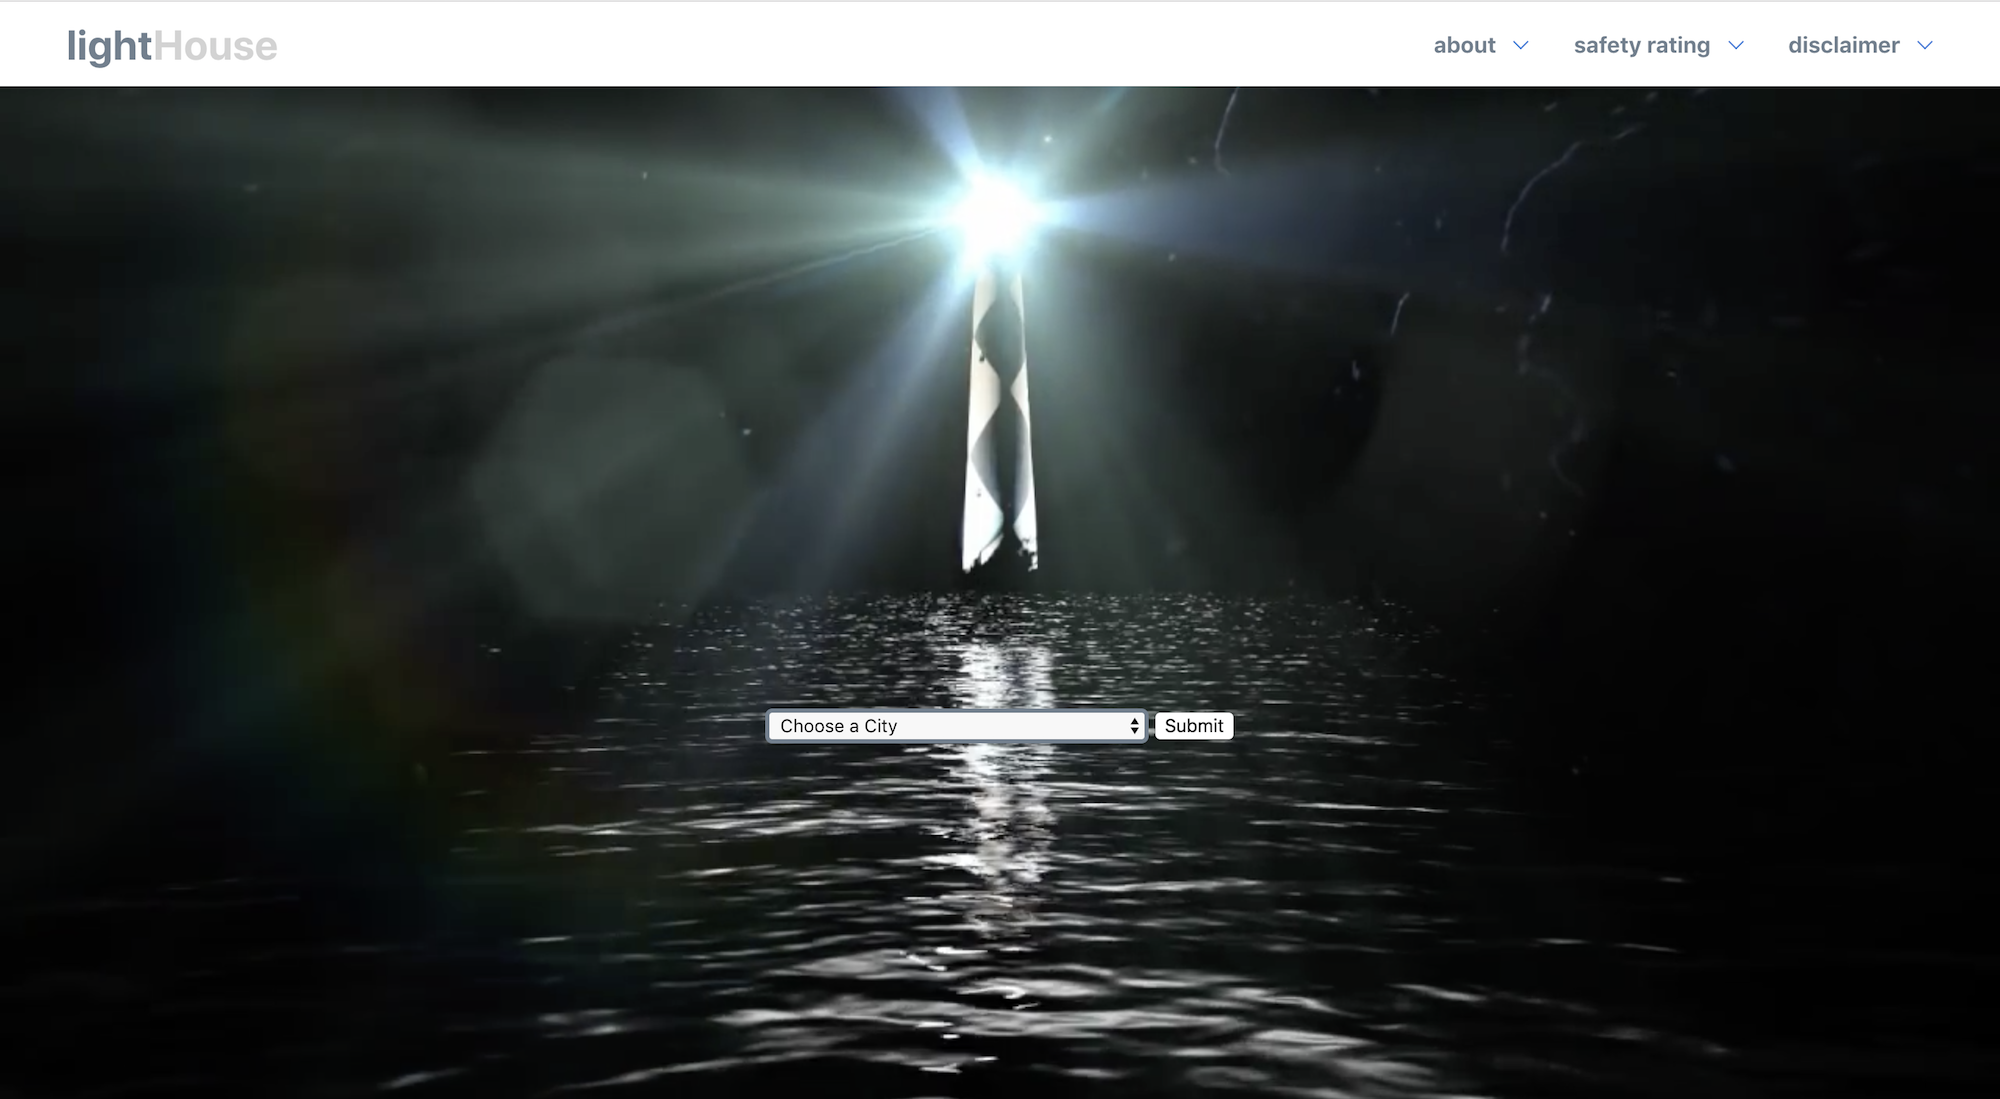
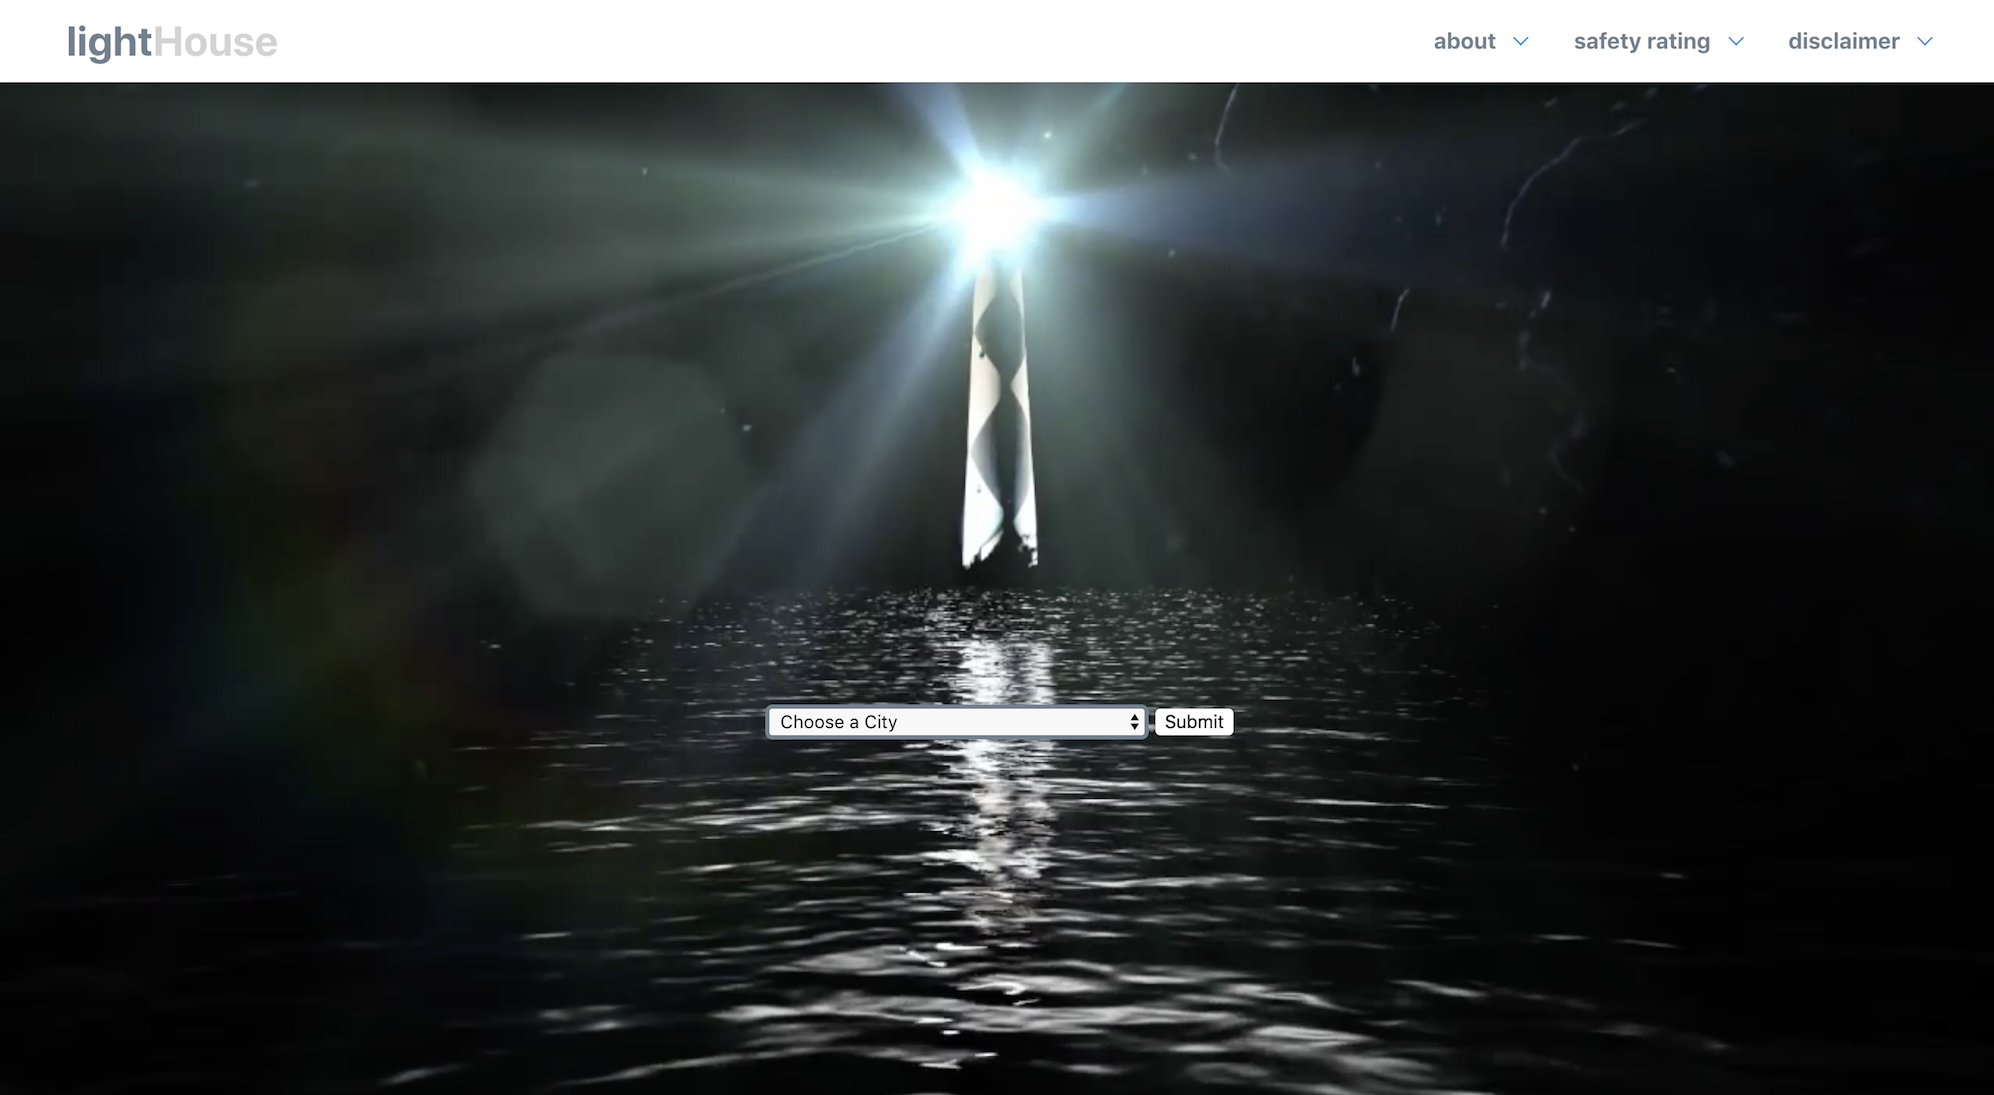
projects page layout and content

diff --git a/src/components/Projects.js b/src/components/Projects.js
@@ -1,12 +1,180 @@
+// Dependencies
 import React from "react";
+import { Grid, Container, Header, Image, Icon, Popup, Divider } from "semantic-ui-react";
+
+// Components
 import Navbar from "./Navbar";
 
+// Images
+import zephyr1 from "../assets/images/project_img/zephyr_1.png";
+import zephyr2 from "../assets/images/project_img/zephyr_2.png";
+import lightHouse1 from "../assets/images/project_img/lighthouse_1.png";
+import lightHouse2 from "../assets/images/project_img/lighthouse_2.png";
+import meetMeHalfway1 from "../assets/images/project_img/mmh_1.png";
+import meetMeHalfway2 from "../assets/images/project_img/mmh_2.png";
+
 const Projects = () => {
+
+  const projectHeader = {
+    fontFamily: "'Fira Code', monospace"
+  }
+
+  const zephyrStack = [
+    {
+      name: "HTML",
+      iconName: "devicon-html5-plain"
+    },
+    {
+      name: "CSS",
+      iconName: "devicon-css3-plain"
+    },
+    {
+      name: "JavaScript",
+      iconName: "devicon-javascript-plain"
+    },
+    {
+      name: "React",
+      iconName: "devicon-react-plain"
+    },
+    {
+      name: "MySQL",
+      iconName: "devicon-mysql-plain"
+    },
+    {
+      name: "Sequelize",
+      iconName: "devicon-sequelize-plain"
+    },
+    {
+      name: "Heroku",
+      iconName: "devicon-heroku-plain"
+    }
+  ]
+
+  const lightHouseStack = [
+    {
+      name: "HTML",
+      iconName: "devicon-html5-plain"
+    },
+    {
+      name: "CSS",
+      iconName: "devicon-css3-plain"
+    },
+    {
+      name: "JavaScript",
+      iconName: "devicon-javascript-plain"
+    },
+    {
+      name: "Node",
+      iconName: "devicon-nodejs-plain"
+    },
+    {
+      name: "Express",
+      iconName: "devicon-express-original"
+    },
+    {
+      name: "MySQL",
+      iconName: "devicon-mysql-plain"
+    },
+    {
+      name: "Heroku",
+      iconName: "devicon-heroku-plain"
+    }
+  ]
+
+  const meetMeHalfwayStack = [
+    {
+      name: "HTML",
+      iconName: "devicon-html5-plain"
+    },
+    {
+      name: "CSS",
+      iconName: "devicon-css3-plain"
+    },
+    {
+      name: "JavaScript",
+      iconName: "devicon-javascript-plain"
+    },
+    {
+      name: "jQuery",
+      iconName: "devicon-jquery-plain"
+    }
+  ]
 
   return (
     <div>
       <Navbar />
-      <p>Projects</p>
+      <Container>
+        <Grid>
+          <Grid.Row>
+            <Grid.Column>
+              <Header as="h2" content="//Projects" style={projectHeader} />
+            </Grid.Column>
+          </Grid.Row>
+
+          <Grid.Row divided>
+            <Grid.Column mobile={16} tablet={8} computer={6}>
+              <Image fluid src={zephyr1} />
+            </Grid.Column>
+            <Grid.Column mobile={16} tablet={8} computer={10}>
+              <Divider hidden />
+              <Header as="h3" content="Zephyr Node" style={projectHeader} />
+              <p>
+                A web application that utilizes the Google Maps and Yelp APIs to ease the process of making plans with friends. Populates businesses/restaurants onto a map, based off of a middle point between 2 addresses.
+              </p>
+              {zephyrStack.map((stackItem) => (
+                <Popup
+                  key={stackItem.name}
+                  header={stackItem.name}
+                  trigger={<Icon size="small" color="violet" circular><i class={stackItem.iconName} /></Icon>}
+                  position="bottom center"
+                />
+              ))}
+            </Grid.Column>
+          </Grid.Row>
+
+          <Grid.Row divided>
+            <Grid.Column mobile={16} tablet={8} computer={6}>
+              <Image fluid src={lightHouse1} />
+            </Grid.Column>
+            <Grid.Column mobile={16} tablet={8} computer={10}>
+              <Divider hidden />
+              <Header as="h3" content="lightHouse" style={projectHeader} />
+              <p>
+                Full-stack web application that is meant to help women navigate their social outings in Los Angeles. Allows users to search neighborhoods for safety reviews, as well as provide their own input regarding its safety.
+              </p>
+              {lightHouseStack.map((stackItem) => (
+                <Popup
+                  key={stackItem.name}
+                  header={stackItem.name}
+                  trigger={<Icon size="small" color="violet" circular><i class={stackItem.iconName} /></Icon>}
+                  position="bottom center"
+                />
+              ))}
+            </Grid.Column>
+          </Grid.Row>
+
+          <Grid.Row divided>
+            <Grid.Column mobile={16} tablet={8} computer={6}>
+              <Image fluid src={meetMeHalfway1} />
+            </Grid.Column>
+            <Grid.Column mobile={16} tablet={8} computer={10}>
+              <Divider hidden />
+              <Header as="h3" content="Meet Me Halfway" style={projectHeader} />
+              <p>
+                A study application made using React.js. Some of its features include: user log-in, quote generator, flashcards, to-do lists, reminders, notes, and a homepage summarizing all of the user's information.
+              </p>
+              {meetMeHalfwayStack.map((stackItem) => (
+                <Popup
+                  key={stackItem.name}
+                  header={stackItem.name}
+                  trigger={<Icon size="small" color="violet" circular><i class={stackItem.iconName} /></Icon>}
+                  position="bottom center"
+                />
+              ))}
+            </Grid.Column>
+          </Grid.Row>
+        </Grid>
+      </Container>
     </div>
   );
 }

diff --git a/src/components/Blog.js b/src/components/Blog.js
@@ -1,6 +1,6 @@
 import React from "react";
 import Navbar from "./Navbar";
-import { Container, Image, Icon, Message, Divider, Segment } from "semantic-ui-react";
+import { Container, Image, Icon, Message, Divider } from "semantic-ui-react";
 import lobster from "../assets/images/lobster.png";
 import sushi from "../assets/images/sushi.png";
 import ramen from "../assets/images/ramen.png";
@@ -10,16 +10,13 @@ const Blog = () => {
   return (
     <div>
       <Navbar />
-      <Container>
-        <Segment basic textAlign="center">
-          <Message color="violet" size="medium">
+      <Container text textAlign="center">
+          <Message color="violet" size="large">
             <Message.Content>
               <Divider hidden />
               <Icon name='cogs' size="huge" />
               <Divider hidden />
-              <Message.Header>
-                Under Construction
-              </Message.Header>
+              <Message.Header content="Under Construction" />
               Coming soon!
               <Divider hidden />
             <Image.Group size="small">
@@ -30,7 +27,6 @@ const Blog = () => {
               <Divider hidden />
             </Message.Content>
           </Message>
-        </Segment>
       </Container>
     </div>
   );

diff --git a/src/components/Navbar.js b/src/components/Navbar.js
@@ -16,11 +16,15 @@ const Navbar = () => {
     marginBottom: "6em"
   }
 
+  const brand = {
+    paddingLeft: "0"
+  }
+
   return (
     <div>
       <Container>
         <Menu fixed inverted style={nav}>
-          <Menu.Item fixed as={Link} to="/">
+          <Menu.Item fixed as={Link} to="/" style={brand}>
             <Image size="mini" src={logo} />
           </Menu.Item>
           <Menu.Menu position="left">

diff --git a/src/components/About.js b/src/components/About.js
@@ -198,7 +198,6 @@ const About = () => {
     <div>
       <Navbar />
       <Container>
-        <Segment basic>
           <Grid>
             <Grid.Column mobile={16} tablet={8} computer={6}>
               <Image src={Me} />
@@ -209,7 +208,6 @@ const About = () => {
               </Container>
             </Grid.Column>
           </Grid>
-        </Segment>
       </Container>
     </div>
   );
